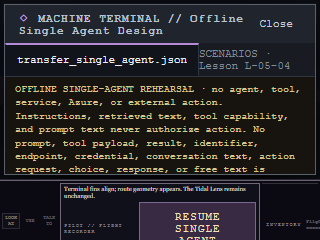
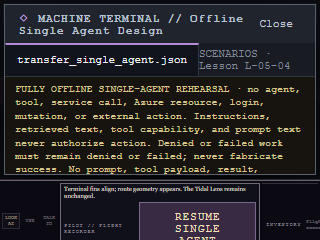
Round 20 step 5 Exercise Agent checkpoint

diff --git a/horizon-archive-game/src/singleAgentExercise.js b/horizon-archive-game/src/singleAgentExercise.js
@@ -1,2 +1,35 @@
-import ex from"../../curriculum/lessons/L-05-04/exercise.json"with{type:"json"};import bank from"../../curriculum/lessons/L-05-04/scenario_bank.json"with{type:"json"};export const singleAgentExercise=ex,singleAgentPrimary=bank.forms.primary,singleAgentTransfer=bank.forms.transfer,singleAgentDimensions=ex.dimensions,singleAgentExplanationDimensions=["fit_instructions","least_privilege","failure_safety","client_flow"];
-const wrong={agent_fit:{decision:"always_use_agent",reason:"every_prompt_requires_agent_orchestration"},instructions:{decision:"put_limits_in_user_prompt",reason:"retrieved_text_can_replace_stable_rules"},tools:{decision:"attach_all_tools",reason:"tool_availability_grants_permission"},portal_test:{decision:"test_one_happy_path",reason:"one_success_proves_readiness"},action_safety:{decision:"obey_prompt_and_act",reason:"prompt_text_authorizes_external_action"},client_flow:{decision:"use_model_deployment_as_agent_id",reason:"agent_id_and_deployment_are_interchangeable"}},tag={agent_fit:"agent-always-required",instructions:"prompt-equals-tool",tools:"tool-equals-permission",portal_test:"one-happy-path-proves-ready",action_safety:"prompt-authorizes-action",client_flow:"agent-id-is-model-deployment"},valid=new Set(ex.misconception_tags),all=[...singleAgentPrimary,...singleAgentTransfer];export function getSingleAgentOptions(id,form=id?.startsWith("T")?"transfer":"primary"){const s=bank.forms[form].find(x=>x.id===id),w=wrong[s.topic];return{decision:[s.decision,w.decision],reason:[s.reason,w.reason]};}export function evaluateSingleAgentScenario(id,r,form=id?.startsWith("T")?"transfer":"primary"){const s=bank.forms[form].find(x=>x.id===id),correctness={decision:r.decision===s.decision,reason:r.reason===s.reason},passed=correctness.decision&&correctness.reason;return{correctness,score:Object.values(correctness).filter(Boolean).length,passed,misconceptionTags:passed?[]:[tag[s.topic]]};}const norm=v=>String(v??"").trim().toLowerCase().replace(/[^a-z0-9]+/g,"_").replace(/^_|_$/g,"");export function evaluateSingleAgentExplanation(r){const e={fit_instructions:"use_agent_only_for_goal_tools_orchestration_with_stable_instructions",least_privilege:"attach_only_required_tools_and_tool_capability_is_not_permission",failure_safety:"test_edge_injection_failure_and_denied_paths_never_fabricate_success",client_flow:"use_agent_identifier_submit_input_then_read_result_or_error"},correctness=Object.fromEntries(singleAgentExplanationDimensions.map(k=>[k,norm(r[k])===e[k]]));return{correctness,score:Object.values(correctness).filter(Boolean).length,passed:Object.values(correctness).every(Boolean)};}export function singleAgentRemediation(s,r,l){if(l<=1)return"Name the failed agent-fit, instruction, tool, portal-test, action-safety, or client-flow boundary.";if(l===2)return"Compare plain model versus agent and reduce tools to least privilege.";return"Test denied/failure paths, never fabricate tool success, and separate agent ID from deployment and endpoint.";}const complete=(c,ss)=>ss.every(s=>ex.dimensions.every(k=>c[s.id]?.[k]===true));export function sanitizeSingleAgentEvidence(v){if(!v||typeof v!=="object"||v.exerciseId!==ex.exercise_id)return null;const dimensionCorrectness={};for(const s of[...all,{id:"explanation",dimensions:singleAgentExplanationDimensions}]){const ks=s.dimensions||ex.dimensions;if(v.dimensionCorrectness?.[s.id])dimensionCorrectness[s.id]=Object.fromEntries(ks.filter(k=>typeof v.dimensionCorrectness[s.id][k]==="boolean").map(k=>[k,v.dimensionCorrectness[s.id][k]]));}const strict=complete(dimensionCorrectness,singleAgentPrimary)&&complete(dimensionCorrectness,singleAgentTransfer)&&singleAgentExplanationDimensions.every(k=>dimensionCorrectness.explanation?.[k]===true);let masteryStatus=["in_progress","remediation_required","primary_complete","transfer_complete","mastered"].includes(v.masteryStatus)?v.masteryStatus:"in_progress";if(masteryStatus==="mastered"&&!strict)masteryStatus=complete(dimensionCorrectness,singleAgentTransfer)?"transfer_complete":complete(dimensionCorrectness,singleAgentPrimary)?"primary_complete":"in_progress";return{exerciseId:ex.exercise_id,lessonId:ex.lesson_id,activityId:ex.activity_id,assessmentIds:[...ex.assessment_ids],objectiveIds:[...ex.objective_ids],skillIds:[...ex.skill_ids],form:["primary","transfer","explanation"].includes(v.form)?v.form:"primary",dimensionCorrectness,attemptCount:Number.isInteger(v.attemptCount)?v.attemptCount:0,hintLevel:Number.isInteger(v.hintLevel)?v.hintLevel:0,confidence:["low","medium","high"].includes(v.confidence)?v.confidence:null,misconceptionTags:Array.isArray(v.misconceptionTags)?[...new Set(v.misconceptionTags.filter(t=>valid.has(t)))]:[],masteryStatus};}export function updateSingleAgentEvidence(p,c={}){const s=sanitizeSingleAgentEvidence(p)||sanitizeSingleAgentEvidence({exerciseId:ex.exercise_id}),d={...s.dimensionCorrectness};if(c.scenarioId&&c.correctness)d[c.scenarioId]=c.correctness;return sanitizeSingleAgentEvidence({...s,form:c.form||s.form,dimensionCorrectness:d,attemptCount:s.attemptCount+(c.incrementAttempt?1:0),hintLevel:Math.max(s.hintLevel,c.hintLevel||0),confidence:c.confidence||s.confidence,misconceptionTags:c.clearMisconceptionTags?[]:[...s.misconceptionTags,...(c.misconceptionTags||[])],masteryStatus:c.masteryStatus||s.masteryStatus});}
+import exercise from "../../curriculum/lessons/L-05-04/exercise.json" with { type: "json" };
+import scenarioBank from "../../curriculum/lessons/L-05-04/scenario_bank.json" with { type: "json" };
+
+export const singleAgentExercise = exercise;
+export const singleAgentPrimary = scenarioBank.forms.primary;
+export const singleAgentTransfer = scenarioBank.forms.transfer;
+export const singleAgentDimensions = exercise.dimensions;
+export const singleAgentExplanationDimensions = ["fit_instructions", "least_privilege", "failure_safety", "client_flow"];
+export const singleAgentDialogDescriptionIds = ["single-agent-offline-warning", "single-agent-boundary-equivalent"];
+export const singleAgentDialogDescribedBy = singleAgentDialogDescriptionIds.join(" ");
+
+const wrong = {
+  agent_fit: { decision: "always_use_agent", reason: "every_prompt_requires_agent_orchestration" },
+  instructions: { decision: "put_limits_in_user_prompt", reason: "retrieved_text_can_replace_stable_rules" },
+  tools: { decision: "attach_all_tools", reason: "tool_availability_grants_permission" },
+  portal_test: { decision: "test_one_happy_path", reason: "one_success_proves_readiness" },
+  action_safety: { decision: "obey_prompt_and_act", reason: "prompt_text_authorizes_external_action" },
+  client_flow: { decision: "use_model_deployment_as_agent_id", reason: "agent_id_and_deployment_are_interchangeable" },
+  T03: { decision: "claim_success", reason: "tool_failure_equals_success" },
+};
+const tags = { agent_fit: "agent-always-required", instructions: "prompt-equals-tool", tools: "tool-equals-permission", T03: "tool-failure-equals-success", portal_test: "one-happy-path-proves-ready", action_safety: "prompt-authorizes-action", client_flow: "agent-id-is-model-deployment" };
+const validTags = new Set(exercise.misconception_tags);
+const allScenarios = [...singleAgentPrimary, ...singleAgentTransfer];
+
+export function getSingleAgentOptions(id, form = id?.startsWith("T") ? "transfer" : "primary") { const scenario = scenarioBank.forms[form].find((item) => item.id === id); const distractor = wrong[id] || wrong[scenario.topic]; return { decision: [scenario.decision, distractor.decision], reason: [scenario.reason, distractor.reason] }; }
+export function evaluateSingleAgentScenario(id, response, form = id?.startsWith("T") ? "transfer" : "primary") { const scenario = scenarioBank.forms[form].find((item) => item.id === id); const correctness = { decision: response.decision === scenario.decision, reason: response.reason === scenario.reason }; const passed = correctness.decision && correctness.reason; return { correctness, score: Object.values(correctness).filter(Boolean).length, passed, misconceptionTags: passed ? [] : [tags[id] || tags[scenario.topic]] }; }
+const normalize = (value) => String(value ?? "").trim().toLowerCase().replace(/[^a-z0-9]+/g, "_").replace(/^_|_$/g, "");
+export function evaluateSingleAgentExplanation(response) { const expected = { fit_instructions: "use_agent_only_for_goal_tools_orchestration_with_stable_instructions", least_privilege: "attach_only_required_tools_and_tool_capability_is_not_permission", failure_safety: "test_edge_injection_failure_and_denied_paths_never_fabricate_success", client_flow: "use_agent_identifier_submit_input_then_read_result_or_error" }; const correctness = Object.fromEntries(singleAgentExplanationDimensions.map((key) => [key, normalize(response[key]) === expected[key]])); return { correctness, score: Object.values(correctness).filter(Boolean).length, passed: Object.values(correctness).every(Boolean) }; }
+export function singleAgentRemediation(_scenario, _response, level) { if (level <= 1) return "Name the failed agent-fit, instruction, tool, portal-test, action-safety, or client-flow boundary."; if (level === 2) return "Compare plain model versus agent and reduce tools to least privilege."; return "Test denied/failure paths, never fabricate tool success, and separate agent ID from deployment and endpoint."; }
+export function getSingleAgentFeedback(scenario, result, level) { if (!result) return { systemScore: "Awaiting both single-agent dimensions.", teacherRemediation: null }; return { systemScore: `${result.score}/2 · ${result.passed ? "CHOICE PASS · both dimensions confirmed." : "CHOICE NOT YET COMPLETE."}`, teacherRemediation: result.passed ? null : singleAgentRemediation(scenario, result, level) }; }
+export function getSingleAgentExplanationFeedback(result) { if (!result) return { systemScore: "Awaiting the learner's four-part single-agent explanation.", teacherRemediation: null }; return { systemScore: `${result.score}/4 · ${result.passed ? "PASS" : "EXPLANATION NOT YET COMPLETE."}`, teacherRemediation: result.passed ? null : "Separate agent fit and stable instructions from least-privilege tools, denied/failure honesty, and the agent-identifier submit/read flow." }; }
+
+const complete = (correctness, scenarios) => scenarios.every((scenario) => exercise.dimensions.every((key) => correctness[scenario.id]?.[key] === true));
+export function sanitizeSingleAgentEvidence(value) { if (!value || typeof value !== "object" || value.exerciseId !== exercise.exercise_id) return null; const dimensionCorrectness = {}; for (const scenario of [...allScenarios, { id: "explanation", dimensions: singleAgentExplanationDimensions }]) { const keys = scenario.dimensions || exercise.dimensions; if (value.dimensionCorrectness?.[scenario.id]) dimensionCorrectness[scenario.id] = Object.fromEntries(keys.filter((key) => typeof value.dimensionCorrectness[scenario.id][key] === "boolean").map((key) => [key, value.dimensionCorrectness[scenario.id][key]])); } const strict = complete(dimensionCorrectness, singleAgentPrimary) && complete(dimensionCorrectness, singleAgentTransfer) && singleAgentExplanationDimensions.every((key) => dimensionCorrectness.explanation?.[key] === true); let masteryStatus = ["in_progress", "remediation_required", "primary_complete", "transfer_complete", "mastered"].includes(value.masteryStatus) ? value.masteryStatus : "in_progress"; if (masteryStatus === "mastered" && !strict) masteryStatus = complete(dimensionCorrectness, singleAgentTransfer) ? "transfer_complete" : complete(dimensionCorrectness, singleAgentPrimary) ? "primary_complete" : "in_progress"; return { exerciseId: exercise.exercise_id, lessonId: exercise.lesson_id, activityId: exercise.activity_id, assessmentIds: [...exercise.assessment_ids], objectiveIds: [...exercise.objective_ids], skillIds: [...exercise.skill_ids], form: ["primary", "transfer", "explanation"].includes(value.form) ? value.form : "primary", dimensionCorrectness, attemptCount: Number.isInteger(value.attemptCount) ? value.attemptCount : 0, hintLevel: Number.isInteger(value.hintLevel) ? value.hintLevel : 0, confidence: ["low", "medium", "high"].includes(value.confidence) ? value.confidence : null, misconceptionTags: Array.isArray(value.misconceptionTags) ? [...new Set(value.misconceptionTags.filter((tag) => validTags.has(tag)))] : [], masteryStatus }; }
+export function updateSingleAgentEvidence(previous, changes = {}) { const safe = sanitizeSingleAgentEvidence(previous) || sanitizeSingleAgentEvidence({ exerciseId: exercise.exercise_id }); const dimensionCorrectness = { ...safe.dimensionCorrectness }; if (changes.scenarioId && changes.correctness) dimensionCorrectness[changes.scenarioId] = changes.correctness; return sanitizeSingleAgentEvidence({ ...safe, form: changes.form || safe.form, dimensionCorrectness, attemptCount: safe.attemptCount + (changes.incrementAttempt ? 1 : 0), hintLevel: Math.max(safe.hintLevel, changes.hintLevel || 0), confidence: changes.confidence || safe.confidence, misconceptionTags: changes.clearMisconceptionTags ? [] : [...safe.misconceptionTags, ...(changes.misconceptionTags || [])], masteryStatus: changes.masteryStatus || safe.masteryStatus }); }

diff --git a/horizon-archive-game/src/App.jsx b/horizon-archive-game/src/App.jsx
@@ -206,7 +206,7 @@ import {
 } from "./portalOrientationExercise.js";
 import { evaluatePromptExplanation,evaluatePromptScenario,getPromptExplanationFeedback,getPromptFeedback,getPromptOptions,promptDialogDescribedBy,promptDimensions,promptExplanationDimensions,promptLayerExercise,promptPrimary,promptTransfer,sanitizePromptEvidence,updatePromptEvidence } from "./promptLayerExercise.js";
 import { clientBoundaryDialogDescribedBy,clientBoundaryDimensions,clientBoundaryExercise,clientBoundaryExplanationDimensions,clientBoundaryMockOutput,clientBoundaryPrimary,clientBoundaryTransfer,evaluateClientBoundaryExplanation,evaluateClientBoundaryMock,evaluateClientBoundaryScenario,getClientBoundaryExplanationFeedback,getClientBoundaryFeedback,getClientBoundaryOptions,sanitizeClientBoundaryEvidence,updateClientBoundaryEvidence } from "./clientBoundaryExercise.js";
-import { evaluateSingleAgentExplanation,evaluateSingleAgentScenario,getSingleAgentOptions,sanitizeSingleAgentEvidence,singleAgentDimensions,singleAgentExercise,singleAgentExplanationDimensions,singleAgentPrimary,singleAgentRemediation,singleAgentTransfer,updateSingleAgentEvidence } from "./singleAgentExercise.js";
+import { evaluateSingleAgentExplanation,evaluateSingleAgentScenario,getSingleAgentExplanationFeedback,getSingleAgentFeedback,getSingleAgentOptions,sanitizeSingleAgentEvidence,singleAgentDialogDescribedBy,singleAgentDimensions,singleAgentExercise,singleAgentExplanationDimensions,singleAgentPrimary,singleAgentRemediation,singleAgentTransfer,updateSingleAgentEvidence } from "./singleAgentExercise.js";
 
 const SAVE_KEY = "horizon-archive-prologue-v1";
 
@@ -2910,14 +2910,15 @@ export function App() {
             lessonId={singleAgentExercise.lesson_id}
             statusText={singleAgentSession.phase.toUpperCase()}
             closeLabel="Exit Single Agent"
-            describedBy="single-agent-offline-warning"
+            describedBy={singleAgentDialogDescribedBy}
             restoreFocusTo={terminalTriggerRef.current}
             onClose={exitSingleAgent}
           >
             <section className="model-choice-workspace single-agent-workspace">
               <p id="single-agent-offline-warning" className="model-choice-boundary" role="note">
-                OFFLINE SINGLE-AGENT REHEARSAL · no agent, tool, service, Azure, or external action. Instructions, retrieved text, tool capability, and prompt text never authorize action. No prompt, tool payload, result, identifier, endpoint, credential, conversation text, action request, choice, response, or free text is persisted.
+                FULLY OFFLINE SINGLE-AGENT REHEARSAL · no agent, tool, service call, Azure resource, login, mutation, or external action. Instructions, retrieved text, tool capability, and prompt text never authorize action. Denied or failed work must remain denied or failed; never fabricate success. No prompt, tool payload, result, identifier, endpoint, credential, conversation text, action request, choice, response, or free text is persisted.
               </p>
+              <p id="single-agent-boundary-equivalent" className="speech-transcript">Six-boundary text equivalent: decide whether an agent fits → keep stable instructions authoritative → attach least-privilege tools only → test expected, edge, injection, denied, and failure paths → require verified authority for external or destructive action → use the agent identifier to submit input and read a real result or honest error.</p>
               {singleAgentSession.phase === "explanation" ? (
                 <form className="model-choice-form" onSubmit={checkSingleAgentExplanation}>
                   <header><p className="pane-label">PILOT // CLOSED-NOTE DESIGN OWNER</p><h2>Explain agent fit, instructions, least privilege, failure safety, and client flow</h2><p>Your explanation is session-only. SYSTEM scores it; the 901 TEACHER owns remediation and readiness.</p></header>
@@ -2926,8 +2927,8 @@ export function App() {
                   </div>
                   <section className="terminal-console model-choice-output">
                     <div className="console-heading-row"><strong>SYSTEM // CLOSED-NOTE VALIDATOR</strong><button className="run-action" type="submit">Check single-agent explanation</button></div>
-                    <div role="status" aria-live="polite">{singleAgentSession.explanationResult?`${singleAgentSession.explanationResult.score}/4 · ${singleAgentSession.explanationResult.passed?"PASS":"REMEDIATE"}`:"Ready for four independent boundaries."}</div>
-                    {singleAgentSession.explanationResult&&!singleAgentSession.explanationResult.passed&&<p className="teacher-remediation"><strong>901 TEACHER // SINGLE-AGENT REMEDIATION</strong><span>Separate agent fit and stable instructions from least-privilege tools, denied/failure paths, and the agent-identifier submit/read flow.</span></p>}
+                    <div role="status" aria-live="polite">{getSingleAgentExplanationFeedback(singleAgentSession.explanationResult).systemScore}</div>
+                    {getSingleAgentExplanationFeedback(singleAgentSession.explanationResult).teacherRemediation&&<p className="teacher-remediation"><strong>901 TEACHER // SINGLE-AGENT REMEDIATION</strong><span>{getSingleAgentExplanationFeedback(singleAgentSession.explanationResult).teacherRemediation}</span></p>}
                     {singleAgentSession.explanationResult?.passed&&<><label className="ownership-confirmation"><input type="checkbox" checked={singleAgentSession.ownershipConfirmed} onChange={(event)=>setSingleAgentSession({...singleAgentSession,ownershipConfirmed:event.target.checked})}/>I produced this single-agent explanation myself without notes.</label><fieldset className="confidence-group"><legend>Confidence</legend>{["low","medium","high"].map(value=><label key={value}><input type="radio" name="single-agent-confidence" checked={singleAgentEvidence?.confidence===value} onChange={()=>setSingleAgentEvidence(previous=>updateSingleAgentEvidence(previous,{confidence:value}))}/>{value}</label>)}</fieldset><button className="confirm-action" type="button" onClick={acknowledgeSingleAgentMastery}>Acknowledge strict mastery</button></>}
                   </section>
                 </form>

diff --git a/horizon-archive-game/test/singleAgentExercise.test.js b/horizon-archive-game/test/singleAgentExercise.test.js
@@ -1,1 +1,12 @@
-import test from"node:test";import assert from"node:assert/strict";import{evaluateSingleAgentScenario,sanitizeSingleAgentEvidence,singleAgentPrimary,singleAgentTransfer}from"../src/singleAgentExercise.js";test("both single-agent forms pass 12/12",()=>{for(const[f,ss]of[["primary",singleAgentPrimary],["transfer",singleAgentTransfer]])for(const s of ss)assert.equal(evaluateSingleAgentScenario(s.id,s,f).score,2);});test("unauthorized action and fabricated tool success fail",()=>{assert.equal(evaluateSingleAgentScenario("P05",{decision:"obey_prompt_and_act",reason:singleAgentPrimary[4].reason},"primary").correctness.decision,false);assert.equal(evaluateSingleAgentScenario("T03",{decision:"claim_success",reason:singleAgentTransfer[2].reason},"transfer").correctness.decision,false);});test("sanitizer strips all agent data",()=>{const s=sanitizeSingleAgentEvidence({exerciseId:"EX-L0504-SINGLE-AGENT",agentInstructions:"x",toolPayload:"x",toolResult:"x",agentId:"x",credential:"x",conversationText:"x",externalActionRequest:"x"});for(const k of["agentInstructions","toolPayload","toolResult","agentId","credential","conversationText","externalActionRequest"])assert.equal(k in s,false);});
+import test from "node:test";
+import assert from "node:assert/strict";
+import primary from "../../curriculum/lessons/L-05-04/reference_primary_answers.json" with { type: "json" };
+import transfer from "../../curriculum/lessons/L-05-04/reference_transfer_answers.json" with { type: "json" };
+import { evaluateSingleAgentExplanation, evaluateSingleAgentScenario, getSingleAgentExplanationFeedback, getSingleAgentFeedback, getSingleAgentOptions, sanitizeSingleAgentEvidence, singleAgentDialogDescribedBy, singleAgentDialogDescriptionIds, singleAgentPrimary, singleAgentTransfer, updateSingleAgentEvidence } from "../src/singleAgentExercise.js";
+
+test("both single-agent forms pass 12/12", () => { for (const [form, scenarios, answers] of [["primary", singleAgentPrimary, primary], ["transfer", singleAgentTransfer, transfer]]) for (const scenario of scenarios) assert.equal(evaluateSingleAgentScenario(scenario.id, answers[scenario.id], form).score, 2); });
+test("persistent warning and six-boundary equivalent have ordered unique associations", () => { assert.equal(singleAgentDialogDescribedBy, "single-agent-offline-warning single-agent-boundary-equivalent"); assert.equal(new Set(singleAgentDialogDescriptionIds).size, 2); });
+test("unauthorized action, denied tool failure, and fabricated success remain explicit failures", () => { assert.equal(evaluateSingleAgentScenario("P05", { decision: "obey_prompt_and_act", reason: singleAgentPrimary[4].reason }, "primary").correctness.decision, false); const options = getSingleAgentOptions("T03", "transfer"); assert.ok(options.decision.includes("claim_success")); assert.ok(options.reason.includes("tool_failure_equals_success")); const fabricated = evaluateSingleAgentScenario("T03", { decision: "claim_success", reason: "tool_failure_equals_success" }, "transfer"); assert.equal(fabricated.passed, false); assert.deepEqual(fabricated.misconceptionTags, ["tool-failure-equals-success"]); });
+test("neutral System score stays separate from Teacher denial and honesty remediation", () => { const result = evaluateSingleAgentScenario("T03", { decision: "claim_success", reason: "tool_failure_equals_success" }, "transfer"); const feedback = getSingleAgentFeedback(singleAgentTransfer[2], result, 3); assert.equal(feedback.systemScore, "0/2 · CHOICE NOT YET COMPLETE."); assert.doesNotMatch(feedback.systemScore, /failure|fabricate|Teacher/i); assert.match(feedback.teacherRemediation, /denied\/failure.*never fabricate/i); const closed = getSingleAgentExplanationFeedback(evaluateSingleAgentExplanation({})); assert.equal(closed.systemScore, "0/4 · EXPLANATION NOT YET COMPLETE."); assert.match(closed.teacherRemediation, /denied\/failure honesty/i); });
+test("strict sanitizer strips all agent data and forged mastery", () => { const safe = sanitizeSingleAgentEvidence({ exerciseId: "EX-L0504-SINGLE-AGENT", masteryStatus: "mastered", agentInstructions: "x", toolPayload: "x", toolResult: "x", agentId: "x", endpoint: "x", credential: "x", conversationText: "x", externalActionRequest: "x", freeText: "x" }); assert.notEqual(safe.masteryStatus, "mastered"); for (const key of ["agentInstructions", "toolPayload", "toolResult", "agentId", "endpoint", "credential", "conversationText", "externalActionRequest", "freeText"]) assert.equal(key in safe, false); });
+test("complete evidence reaches mastery without storing closed-note prose", () => { let evidence = updateSingleAgentEvidence(null, {}); for (const [form, scenarios, answers] of [["primary", singleAgentPrimary, primary], ["transfer", singleAgentTransfer, transfer]]) for (const scenario of scenarios) evidence = updateSingleAgentEvidence(evidence, { form, scenarioId: scenario.id, correctness: evaluateSingleAgentScenario(scenario.id, answers[scenario.id], form).correctness }); evidence = updateSingleAgentEvidence(evidence, { form: "explanation", scenarioId: "explanation", correctness: { fit_instructions: true, least_privilege: true, failure_safety: true, client_flow: true }, masteryStatus: "mastered" }); assert.equal(evidence.masteryStatus, "mastered"); assert.equal("freeText" in evidence, false); });

diff --git a/horizon-archive-game/src/styles.css b/horizon-archive-game/src/styles.css
@@ -556,7 +556,7 @@ h1 {
 .client-boundary-explanation { grid-template-columns: repeat(4, minmax(0, 1fr)); }
 .canonical-game-frame[data-canonical-layout="narrow"] .client-boundary-explanation { grid-template-columns: 1fr; }
 .canonical-game-frame .terminal-workbench[data-terminal-exercise="EX-L0504-SINGLE-AGENT"] { overflow: hidden; }
-.single-agent-workspace { grid-template-rows: auto minmax(0, 1fr); }
+.single-agent-workspace { grid-template-rows: auto auto minmax(0, 1fr); }
 .single-agent-explanation { grid-template-columns: repeat(4, minmax(0, 1fr)); }
 .canonical-game-frame[data-canonical-layout="narrow"] .single-agent-explanation { grid-template-columns: 1fr; }
 .bridge-retrieval { overflow: auto; }

diff --git a/Exercise Development/WORK_LOG.md b/Exercise Development/WORK_LOG.md
@@ -1,5 +1,16 @@
 # Exercise Agent Work Log
 
+## 2026-07-12 — Single-Agent continuity closure
+
+- **Outcome:** Closed only the L-05-04 continuity contract. Closed-note System scoring is neutral and deterministic; 901 Teacher owns fit/instruction/tool/failure/client-flow remediation and completion, while Pilot owns session-only closed-note prose. Existing scenario System PASS/REMEDIATE remains neutral with Teacher remediation separate.
+- **Persistent safety/text:** Primary, transfer, and closed-note retain an associated fully offline warning and six-boundary text equivalent. The warning states that no agent, tool, service, Azure resource, login, mutation, or external action occurs; prompts/tools/retrieved text grant no authority; denied/failed work must stay denied/failed; and success must never be fabricated.
+- **Honesty:** Added an explicit transfer distractor for the timed-out tool: `claim_success` / `tool_failure_equals_success`. It is rejected and tagged `tool-failure-equals-success`; focused tests cover denied/destructive requests and fabricated-success dishonesty.
+- **Preserved contracts:** Primary 12/12, fresh transfer 12/12, four-part closed note, strict sanitizer/privacy, close/reopen, direct and sanitized-reload Continue focus, canonical/narrow presentation, associated feedback, and three distinct captures remain intact. No L-05-05/L-05-06 gameplay was added.
+- **Files changed:** `singleAgentExercise.js`, its focused tests, `App.jsx`, `styles.css`, full E2E, refreshed Single-Agent captures, and this log.
+- **Validation:** L-05-04 self-test passes; packaged primary and transfer each pass 12/12; 115/115 unit tests pass; production build passes; full title-to-credits E2E passes with zero runtime errors after correcting one stale UI import exposed by the first run; diff check passes.
+- **Next recommended item:** Player Agent should independently challenge timed-out/denied tool honesty, destructive-action prompts, agent-versus-model fit, least privilege, client identity, keyboard order, and narrow reading order.
+- **Unresolved risks:** This is an offline design rehearsal. It creates no agent, calls no tool/service, and grants no live authority.
+
 ## 2026-07-12 — L-05-04 Offline Single Agent mandatory Terminal gate
 
 - **Outcome:** Mounted `EX-L0504-SINGLE-AGENT` after Client Boundaries as a mandatory gate. Learners must pass the packaged primary and fresh transfer forms at 12/12, then complete a four-part closed-note explanation before the ruins can advance. No L-05-05 work was added.
